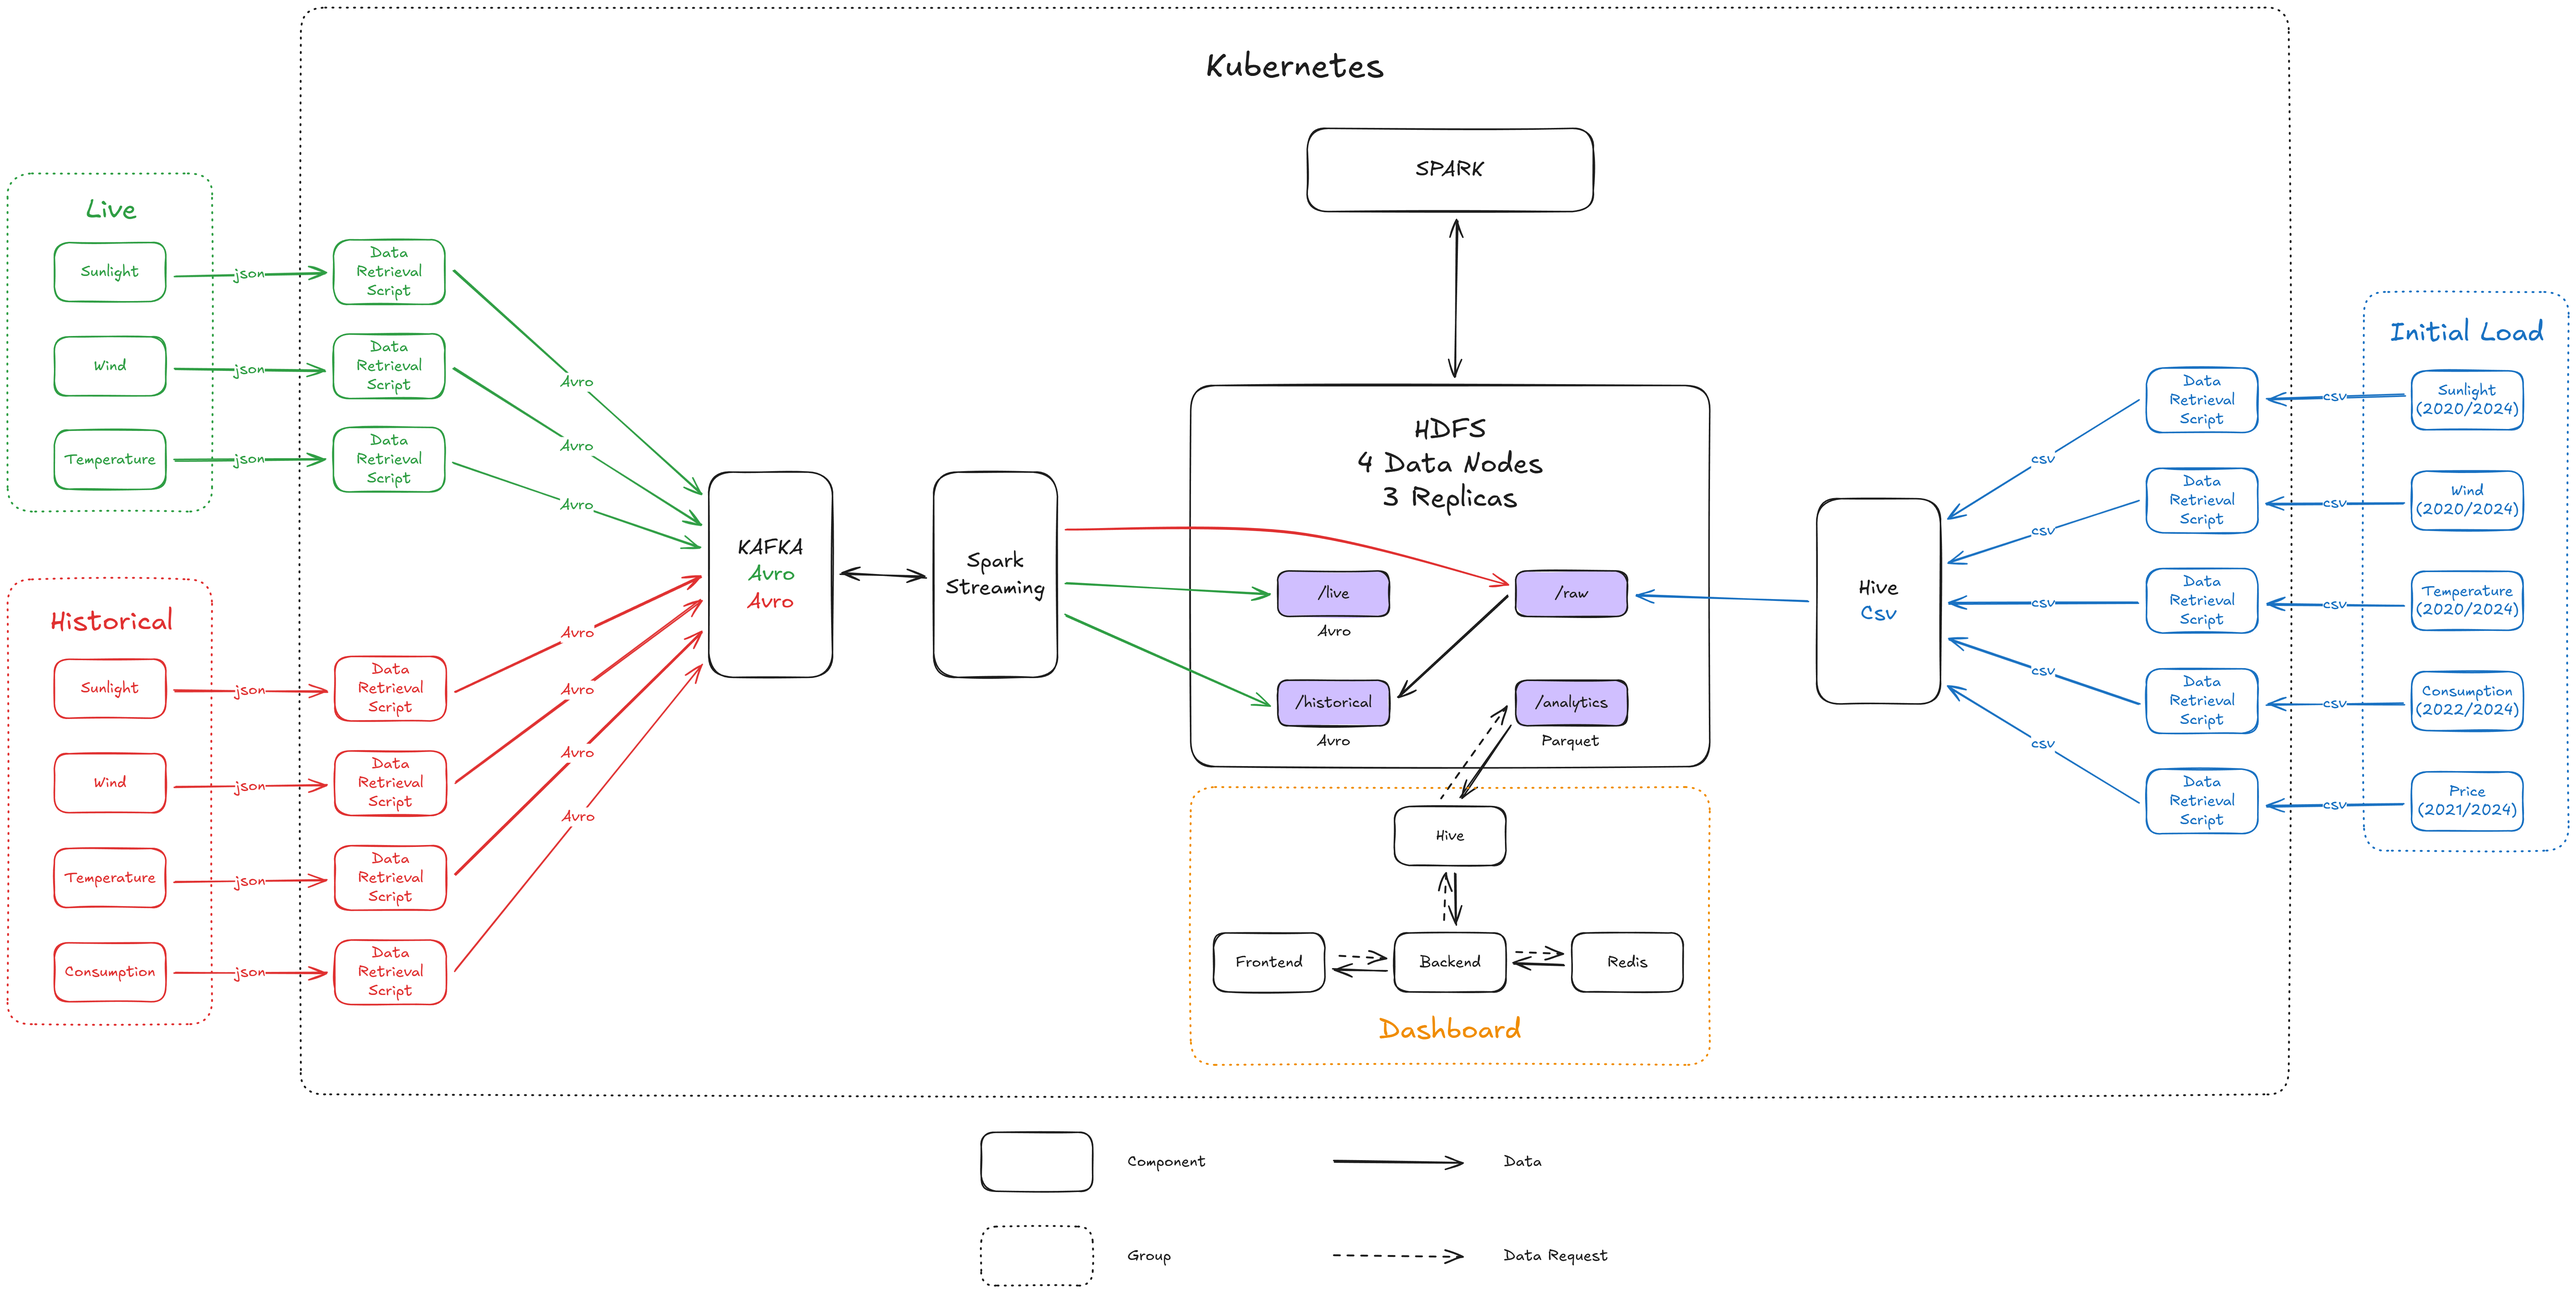
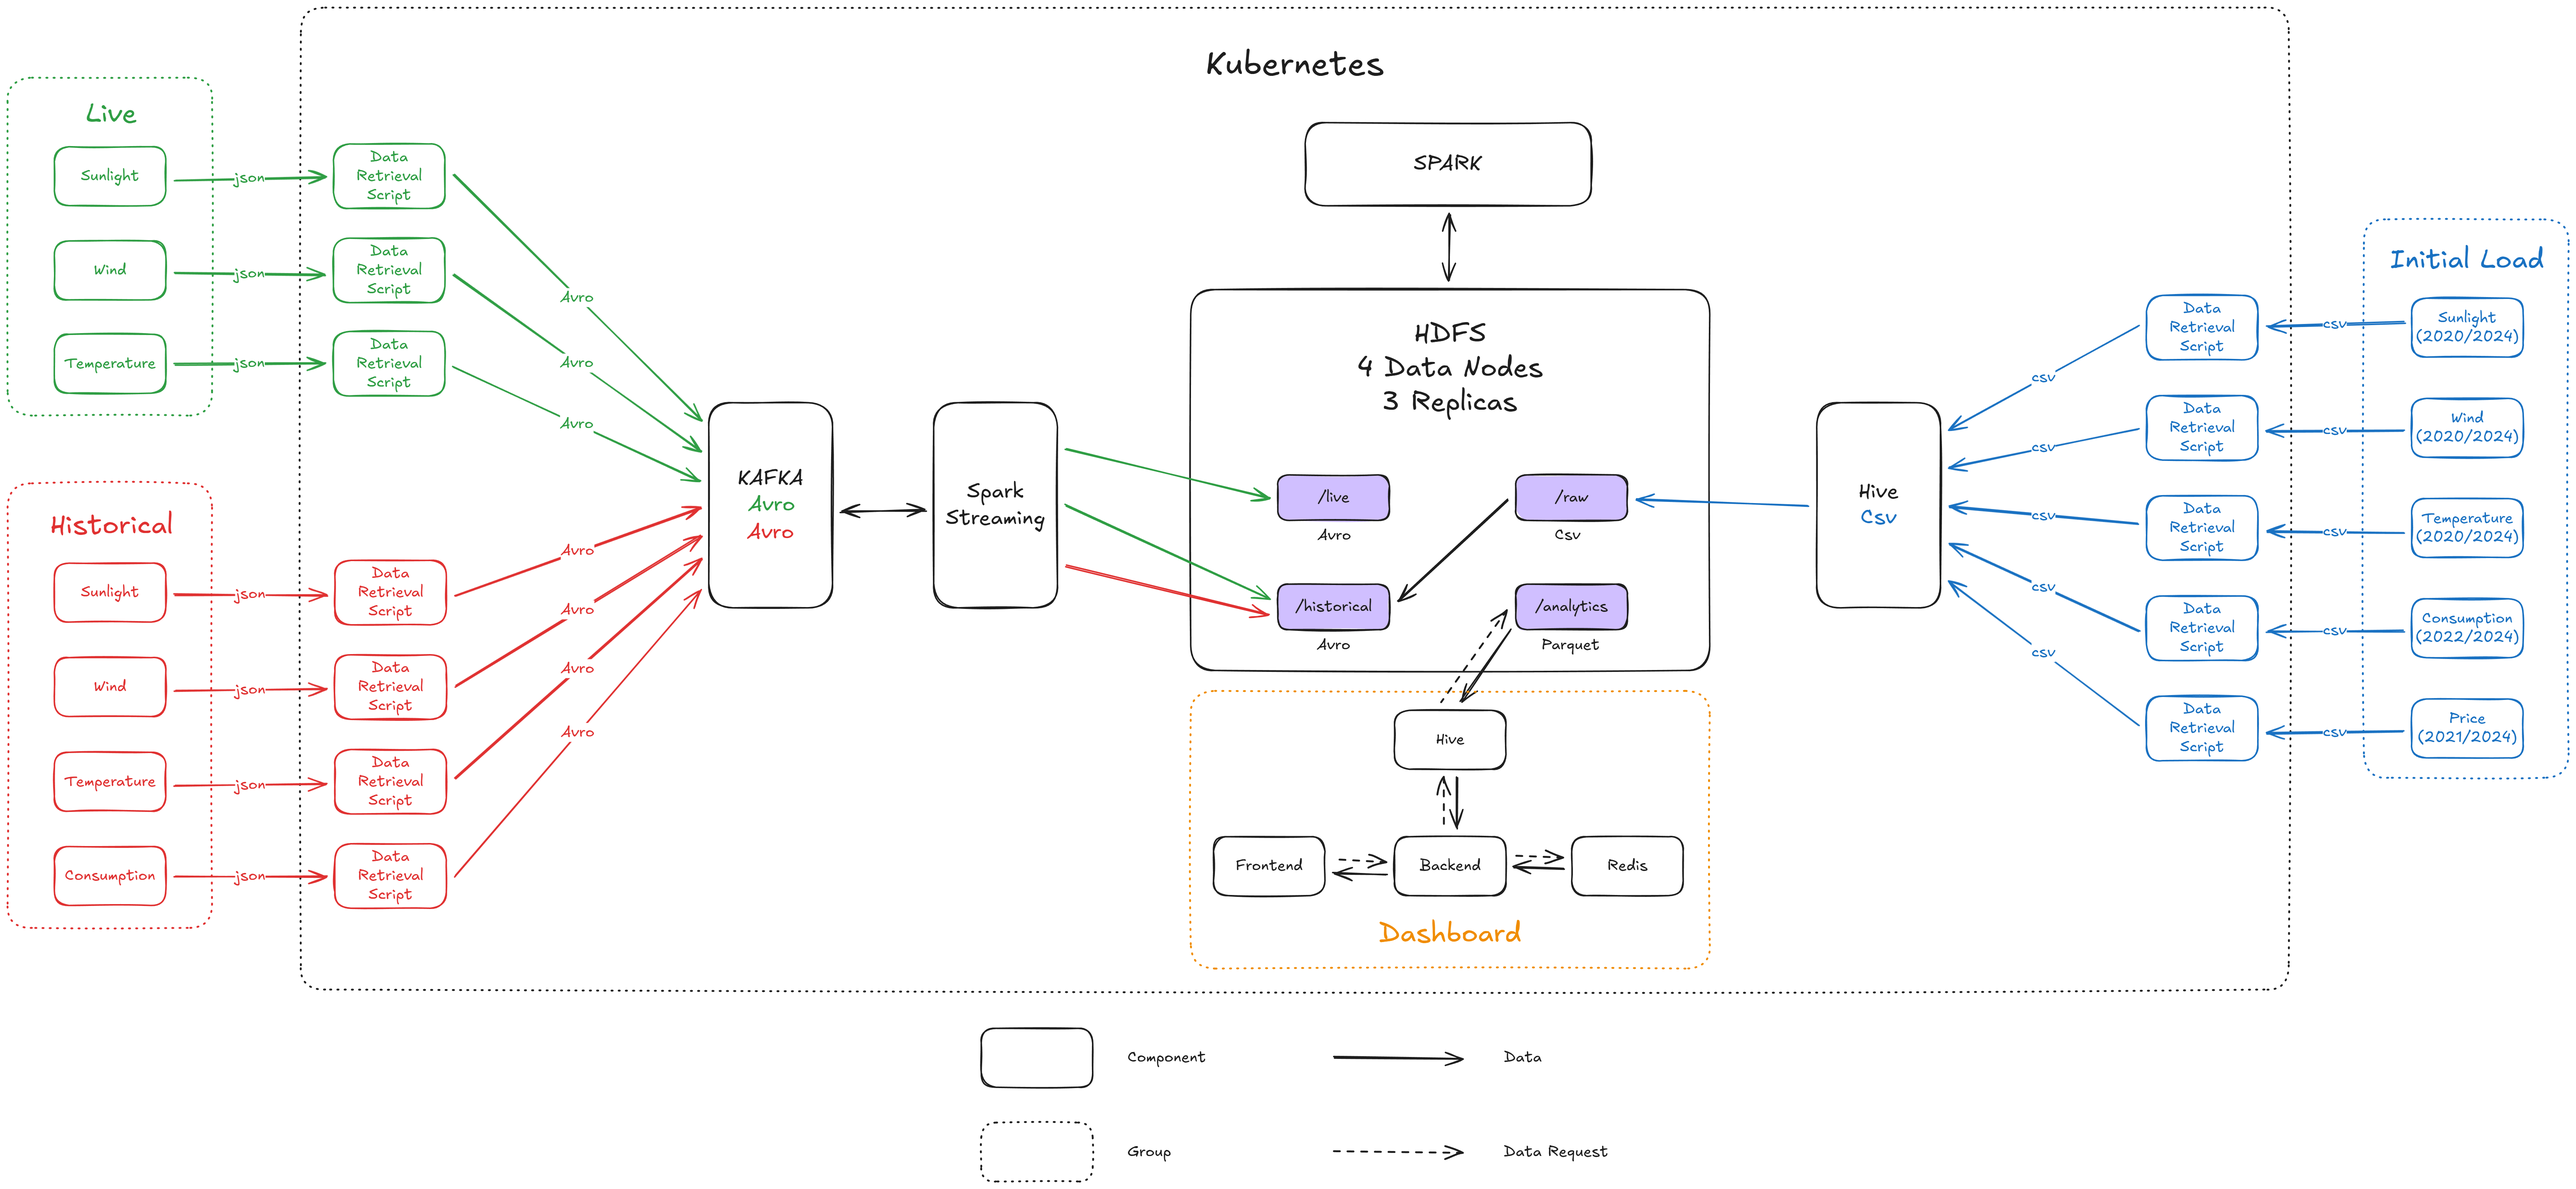
diagrams

diff --git a/Guides/DataLifeCycleDiagrams.md b/Guides/DataLifeCycleDiagrams.md
@@ -1,0 +1,127 @@
+# Data Life Cycle Diagrams
+```text
+flowchart LR
+
+%% INGESTION NODES
+API[APIs]
+Python[Python script]
+Hive[Hive → HDFS]
+KafkaHist[Kafka historical-&60;topic&62;]
+KafkaLive[Kafka live-&60;topic&62;]
+SparkHist[Spark streaming enrichment]
+SparkLive[Spark streaming enrichment]
+
+%% STORAGE NODES
+HDFS_Raw[/HDFS /raw/]
+HDFS_Historical[/HDFS /historical/]
+HDFS_Live[/HDFS /live/]
+HDFS_Archive[/HDFS /historical/archives/]
+HDFS_Analytics[/HDFS /analytics/]
+
+%% ML NODES
+ML_Train[ML training &40;Spark job&41;]
+ML_Predict[ML prediction &40;Spark job&41;]
+
+%% PRECISION PIPELINE
+PrecisionCalc[Prediction precision calculator]
+
+
+%% ---------- INITIAL LOAD &40;one time&41; ----------
+API --> Python
+Python --> Hive
+Hive --> HDFS_Raw
+HDFS_Raw --> HDFS_Historical
+
+
+%% ---------- HISTORICAL &40;6h weather / monthly consumption&41; ----------
+API --> Python
+Python --> KafkaHist
+KafkaHist --> SparkHist
+SparkHist --> HDFS_Historical
+
+
+%% ---------- LIVE FORECAST &40;6h&41; ----------
+API --> Python
+Python --> KafkaLive
+KafkaLive --> SparkLive
+SparkLive --> HDFS_Live
+SparkLive --> HDFS_Archive
+
+
+%% ---------- MACHINE LEARNING PIPELINE ----------
+HDFS_Historical --> ML_Train
+HDFS_Live --> ML_Predict
+
+ML_Train --> HDFS_Archive
+ML_Predict --> HDFS_Analytics
+
+
+%% ---------- PRECISION CALCULATION LOOP ----------
+HDFS_Analytics --> PrecisionCalc
+HDFS_Historical --> PrecisionCalc
+PrecisionCalc --> HDFS_Analytics
+```
+
+## Initial-Load Diagram
+```text
+sequenceDiagram
+    title Initial Load Data Sequence
+
+    participant API as External APIs
+    participant Python as Python Script
+    participant CSV as CSV Files
+    participant Hive as Hive Ingestion
+    participant Raw as HDFS /raw/
+    participant Spark as Spark Batch Job
+    participant Hist as HDFS /historical/<year>/<topic>/
+
+    API->>Python: Retrieve full historical dataset (JSON)
+    Python->>CSV: Transform data into CSV format
+    CSV->>Hive: Load CSV into Hive tables
+    Hive->>Raw: Store data in HDFS /raw/ area
+    Spark->>Raw: Read raw data from HDFS
+    Spark->>Spark: Enrich data (municipalityCode and dkArea)
+    Spark->>Hist: Write monthly Avro files to /historical/<year>/<topic>/
+```
+
+## Historical Diagram
+```text
+sequenceDiagram
+    title Historical Data Sequence
+
+    participant API as External APIs
+    participant Python as Python Script
+    participant Kafka as Kafka (historical-<topic>)
+    participant Spark as Spark Streaming Job
+    participant Hist as HDFS /historical/<year>/<topic>/
+
+    API->>Python: Retrieve new historical data (every 24h)
+    Python->>Kafka: Send Avro messages to historical-<topic> topic
+    Spark->>Kafka: Consume historical events
+    Spark->>Spark: Enrich data (municipalityCode and dkArea)
+    Spark->>Hist: Append to monthly Avro files in /historical/<year>/<topic>/
+```
+
+## Live Diagram
+```text
+sequenceDiagram
+    title Live Data Sequence
+
+    participant API as External APIs
+    participant Python as Python Script
+    participant Kafka as Kafka (live-<topic>)
+    participant Stream as Spark Streaming Job
+    participant Live as HDFS /live/
+    participant Archive as HDFS /historical/archives/<year>/<month>/live/
+    participant Batch as Spark Batch Job
+    participant Forecast as HDFS /historical/<year>/forecast-<topic>/
+
+    API->>Python: Retrieve live forecast data (every 6 hours)
+    Python->>Kafka: Send Avro messages to live-<topic> topic
+    Stream->>Kafka: Consume live forecast events
+    Stream->>Stream: Enrich data (municipalityCode and dkArea)
+    Stream->>Live: Overwrite Avro files in /live/
+    Stream->>Archive: Store copy in monthly archive folder
+    Batch->>Live: Read latest live data
+    Batch->>Forecast: Produce monthly Avro files in forecast-<topic> folder
+```
